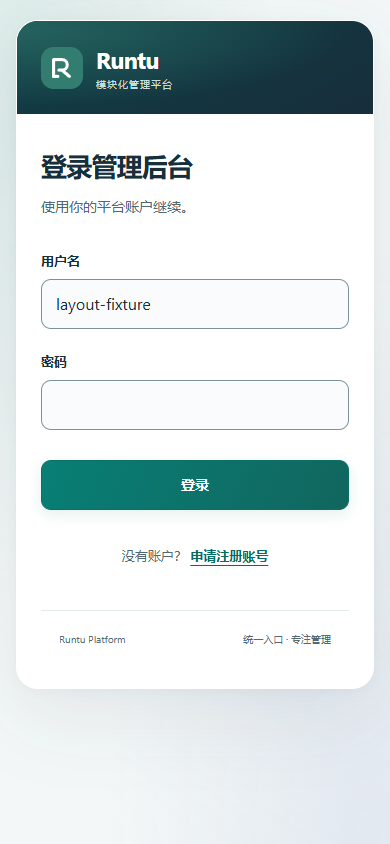
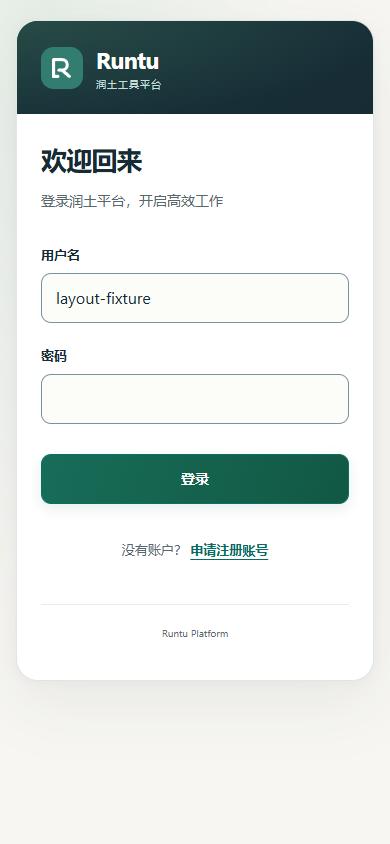
TASK-0040: polish role-neutral auth and transient signup notices

diff --git a/frontend/src/pages/LoginPage.vue b/frontend/src/pages/LoginPage.vue
@@ -3,18 +3,20 @@ import { ref, onUnmounted } from 'vue'
 import { useNavigation } from '../navigation/context.js'
 import { readPublicPolicy } from '../api/registration.js'
 import { login } from '../api/auth.js'
+import AuthToast from '../components/AuthToast.vue'
 const emit = defineEmits(['authenticated'])
 const username = ref(''), password = ref(''), pending = ref(false), error = ref('')
 const { navigate } = useNavigation()
-const signupPending = ref(false), signupMessage = ref('')
+const signupPending = ref(false), signupNotice = ref(null)
+function notify(message) { signupNotice.value = { message } }
 let signupController, signupTimer, live = true, cachedPolicy, checkedAt = 0
 let controller, timer
 async function signup() {
   if (pending.value || signupPending.value) return
-  signupMessage.value = ''
+  signupNotice.value = null
   if (cachedPolicy && Date.now() - checkedAt < 10000) {
     if (cachedPolicy.enabled) navigate('/register')
-    else signupMessage.value = '暂未开放注册'
+    else notify('管理员未开启注册')
     return
   }
   signupPending.value = true; signupController = new AbortController()
@@ -24,8 +26,8 @@ async function signup() {
     if (!live) return
     cachedPolicy = policy; checkedAt = Date.now()
     if (policy.enabled) navigate('/register')
-    else signupMessage.value = '暂未开放注册'
-  } catch { if (live) signupMessage.value = '注册服务暂不可用，请稍后再试' }
+    else notify('管理员未开启注册')
+  } catch { if (live) notify('注册服务暂不可用，请稍后再试') }
   finally { clearTimeout(signupTimer); if (live) signupPending.value = false }
 }
 async function submit() {
@@ -48,8 +50,8 @@ onUnmounted(() => { live = false; clearTimeout(timer); controller?.abort(); clea
 </script>
 <template>
   <section class="login-panel" aria-labelledby="login-title">
-    <div class="login-context"><h1 id="login-title">登录管理后台</h1><p>使用你的平台账户继续。</p></div>
-    <form class="login-form" @submit.prevent="submit" :aria-busy="pending">
+    <div class="login-context"><h1 id="login-title">欢迎回来</h1><p>登录润土平台，开启高效工作</p></div>
+    <form class="login-form" @submit.prevent="submit" :aria-busy="pending || signupPending">
       <label for="login-username">用户名</label>
       <input id="login-username" v-model="username" name="username" autocomplete="username" autocapitalize="none" spellcheck="false" required maxlength="64" :disabled="pending" />
       <label for="login-password">密码</label>
@@ -57,8 +59,9 @@ onUnmounted(() => { live = false; clearTimeout(timer); controller?.abort(); clea
       <p v-if="error" class="auth-error" role="alert">{{ error }}</p>
       <button type="submit" class="login-submit" :disabled="pending || signupPending">{{ pending ? '正在验证…' : '登录' }}</button>
       <p class="login-help">没有账户？ <a href="/register" :aria-disabled="pending || signupPending" @click.prevent="signup">申请注册账号</a></p>
-      <p v-if="signupPending || signupMessage" class="signup-notice" role="status" aria-live="polite">{{ signupPending ? '正在确认注册状态…' : signupMessage }}</p>
+      <span v-if="signupPending" class="signup-pending" role="status">正在确认注册状态…</span>
     </form>
+    <AuthToast :notice="signupNotice" />
   </section>
 </template>
 <style scoped>
@@ -72,6 +75,6 @@ onUnmounted(() => { live = false; clearTimeout(timer); controller?.abort(); clea
 .login-help { margin: 14px 0 0; color: var(--auth-muted); text-align: center; font-size: 13px; line-height: 2; }
 .login-help a { display: inline-flex; align-items: center; min-height: 44px; font-weight: 600; }
 .auth-error { margin: 0; }
-.signup-notice { margin: 0; text-align: center; color: var(--auth-muted); font-size: 13px; line-height: 1.8; }
+.signup-pending { color: var(--auth-muted); text-align: center; font-size: 12px; line-height: 1.8; }
 .login-help a[aria-disabled=true] { opacity: .65; cursor: wait; }
 </style>

diff --git a/frontend/src/components/AuthToast.vue b/frontend/src/components/AuthToast.vue
@@ -1,0 +1,36 @@
+<script setup>
+import { shallowRef, watch, onUnmounted } from 'vue'
+const props = defineProps({ notice: Object })
+const visible = shallowRef(false)
+let timer
+function dismiss() { clearTimeout(timer); visible.value = false }
+watch(() => props.notice, value => {
+  dismiss()
+  if (value) { visible.value = true; timer = setTimeout(dismiss, 3200) }
+}, { immediate: true })
+onUnmounted(() => clearTimeout(timer))
+</script>
+<template>
+  <div class="auth-toast-region" role="status" aria-live="polite" aria-atomic="true">
+    <Transition name="auth-toast">
+      <div v-if="visible" class="auth-toast">
+        <svg class="toast-symbol" viewBox="0 0 24 24" fill="none" aria-hidden="true"><circle cx="12" cy="12" r="9" stroke="currentColor" stroke-width="1.5" /><path d="M12 11v5m0-9v.1" stroke="currentColor" stroke-width="1.8" stroke-linecap="round" /></svg>
+        <span>{{ notice.message }}</span><button type="button" aria-label="关闭提示" @click="dismiss">×</button>
+      </div>
+    </Transition>
+  </div>
+</template>
+<style scoped>
+.auth-toast-region { position: fixed; z-index: 100; bottom: 28px; left: 50%; transform: translateX(-50%); width: max-content; max-width: calc(100vw - 32px); pointer-events: none; }
+.auth-toast { display: flex; align-items: center; gap: 12px; min-height: 64px; padding: 10px 10px 10px 18px; border: 1px solid #cbdad3; border-radius: 14px; background: #fffffc; color: #223b35; box-shadow: 0 12px 40px #172b3526, 0 2px 6px #172b350a; pointer-events: auto; font-size: 14px; line-height: 1.65; }
+.toast-symbol { width: 24px; height: 24px; color: #176d58; flex-shrink: 0; }
+.auth-toast span { max-width: 320px; overflow-wrap: anywhere; }
+.auth-toast button { width: 44px; height: 44px; min-height: 44px; padding: 0; border: 0; background: transparent; color: #526873; font-size: 23px; flex-shrink: 0; }
+.auth-toast button:hover { background: #edf3ef; color: #172b35; }
+.auth-toast button:focus-visible { outline: 3px solid #176d58; outline-offset: 1px; }
+.auth-toast-enter-active { transition: opacity .2s ease, transform .2s ease; }
+.auth-toast-leave-active { transition: opacity .18s ease, transform .18s ease; }
+.auth-toast-enter-from, .auth-toast-leave-to { opacity: 0; transform: translateY(10px); }
+@media (max-width: 760px) { .auth-toast-region { bottom: 20px; width: calc(100vw - 32px); } .auth-toast { font-size: 13px; gap: 10px; padding-left: 14px; } .auth-toast span { flex: 1; } }
+@media (prefers-reduced-motion: reduce) { .auth-toast-enter-active, .auth-toast-leave-active { transition: none; } .auth-toast-enter-from, .auth-toast-leave-to { transform: none; } }
+</style>

diff --git a/frontend/tests/design.test.js b/frontend/tests/design.test.js
@@ -22,6 +22,6 @@ test('core text and semantic state token pairs meet 4.5:1 contrast', () => {
 })
 
 test('authentication text, field boundaries and primary actions meet contrast targets', () => {
-  for (const [foreground,background] of [['#526873','#ffffff'],['#526873','#eef5f3'],['#ffffff','#087f75'],['#ffffff','#11665f'],['#c5dfdc','#24625e'],['#9d3434','#fff3f1']]) assert.ok(contrast(foreground,background)>=4.5,foreground+'/'+background)
-  assert.ok(contrast('#7b929d','#f9fbfc')>=3,'input boundary')
+  for (const [foreground,background] of [['#56676d','#ffffff'],['#526873','#eef5f3'],['#ffffff','#176d58'],['#ffffff','#125844'],['#c5dfdc','#274b46'],['#9d3434','#fff3f1'],['#223b35','#fffffc']]) assert.ok(contrast(foreground,background)>=4.5,foreground+'/'+background)
+  assert.ok(contrast('#7b929d','#fcfcf9')>=3,'input boundary')
 })

diff --git a/docs/AUTH_UI.md b/docs/AUTH_UI.md
@@ -1,19 +1,21 @@
-# 认证页面视觉更新（TASK-0038 / TASK-0039）
+# 认证页面与临时注册提示（TASK-0038 / TASK-0039 / TASK-0040）
 
-沿用Vue3 JavaScript、共享认证布局、现有路由/API与系统字体，无外部图片、字体或依赖。桌面以深青/海军灰品牌区与浅色表单区构成一张双栏面板，工具平台文案搭配克制的抽象弧线装饰，移除模块/账户/权限示意；手机收起品牌说明与装饰，保留紧凑品牌头、表单及页脚。基本色为#103F46、#172E3B、#F3F7F7、#526873和#087F75，按钮及背景使用轻量CSS渐变。
+登录为角色中立入口，标题“欢迎回来”，副标题“登录润土平台，开启高效工作”；角色与权限继续由后端决定。共享认证布局使用深灰蓝、翡翠绿、暖白与系统字体，桌面双栏面板收紧至1040px/约600px，品牌说明精简为工具平台入口；移除架构图、弧线与旧宣传文字。手机保留品牌头和紧凑表单，无外部字体、图片或依赖。
 
-登录表单合并为一句“没有账户？ 申请注册账号”，仅后半句是链接。点击链接先查询公开策略：enabled=true才导航/register；false留在/login显示“暂未开放注册”；404/503/网络失败留在/login显示“注册服务暂不可用，请稍后再试”。同一查询进行中忽略快速重复操作，成功查询结果在当前登录组件内复用10秒；失败不缓存，离页取消请求并忽略晚到响应。直接/register仍独立查询策略，关闭时只显示“暂未开放注册”和返回登录；失败显示简洁服务不可用，两者没有刷新按钮，也不显示表单。公共404/503仍显示服务不可用，不能误报为关闭或管理员审核错误。注册启用时保留原有表单、提交后提示与密码清空。后端开关继续在写入事务中权威校验，没有自动开启策略。
+注册入口为同一句“没有账户？ 申请注册账号”。点击先查询公开策略：enabled=true才进入/register；false留在/login弹出“管理员未开启注册”；404/503/网络失败留页弹出“注册服务暂不可用，请稍后再试”，不能冒充关闭。查询中忽略重复点击，当前组件内成功结果复用10秒，失败不缓存；离页取消查询并忽略晚到响应。提交时仍由后端再次校验策略，未自动开关注册。
 
-共享布局管理登录/注册页标题与统一输入、按钮、错误样式；移除旧页面重复CSS。字段有明确label，autocomplete与键盘顺序保留，操作目标至少44px，密码不持久化；提交中禁用与错误状态保留。文字/主要按钮对比度至少4.5:1，输入边界至少3:1；焦点清晰，prefers-reduced-motion下关闭过渡，无自动播放动画。
+AuthToast组件单独拥有显示/计时生命周期，底部浮层不阻断表单，不调用alert或抢焦点。role=status、aria-live=polite、aria-atomic播报消息；出现后约3.2秒自动淡出，支持关闭按钮，重复触发重新计时，关闭/卸载清理计时器。200ms淡入和180ms淡出在prefers-reduced-motion下关闭。
 
-会话确认、同源Cookie、CSRF、登录错误401/403、returnTo深链、匿名注册和owner审核权限均沿用现有实现；未新增身份或注册API。未修改后端/迁移、真实数据库或凭据，未重启已有服务或部署。
+直接/register仍可匿名访问并独立读取策略：开启显示表单；关闭为简洁关闭提示和返回登录；查询失败为服务不可用和返回链接。关闭/失败均无注册表单或刷新按钮。保留注册提交的既有安全/格式错误语义及密码清空。
 
-验证：Node28项和生产构建通过；Python144 passed、11项在线PG本地跳过。Chrome全API夹具1440/390/360覆盖新链接预检、快速点击去重、关闭留页、404/503/网络失败、启用跳转、离页取消、键盘Tab、登录提交中禁用/密码清空、登录401/403/503、注册关闭/开启/404/503、认证跳转及原模块/owner审核流程；屏宽溢出与减少动态效果检查。截图仅为全API夹具，密码为空，不是真实账户。CI实际结果见PR和协调状态。
+字段label、autocomplete、44px以上目标、Tab顺序、清晰焦点保留；文字和主要按钮至少4.5:1、输入边界至少3:1。复用原登录、CSRF、同源Cookie、returnTo、会话失效和owner审核权限；未修改后端/迁移/真实数据，也未重启已有服务。
 
-![桌面登录夹具](images/task-0038/login-desktop.png)
+验证使用全API浏览器夹具1440/390/360，含toast出现/自动消失/手动关闭/重复点击、注册启用/关闭/404/503/网络失败、减少动态效果、离页取消、登录401/403/503及原模块/审核回归。Node28项和生产构建通过；CI实际结果见PR和协调状态。所有截图为隔离夹具、密码为空，过渡结束后捕获并目视检查。
 
-![手机登录夹具](images/task-0038/login-mobile.png)
+![桌面欢迎登录](images/task-0038/login-desktop.png)
 
-![关闭注册夹具](images/task-0038/registration-closed-mobile.png)
+![手机欢迎登录](images/task-0038/login-mobile.png)
 
-![登录页关闭注册提示夹具](images/task-0038/signup-closed-mobile.png)
+![手机关闭注册toast](images/task-0038/signup-closed-mobile.png)
+
+![直接注册页关闭状态](images/task-0038/registration-closed-mobile.png)
